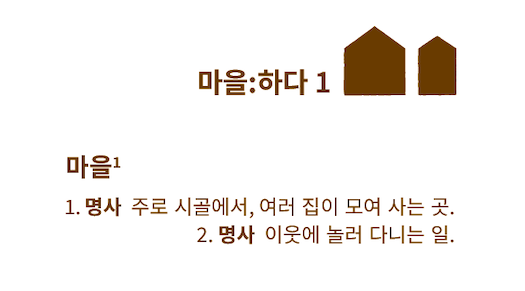
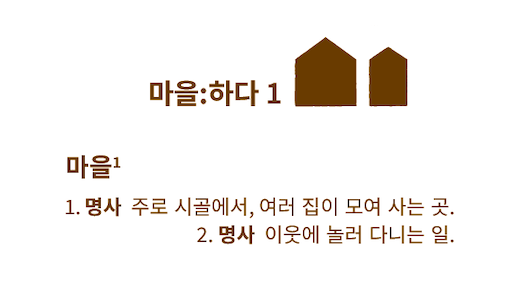
align changed

Changed region(s): [[0.2743, 0.0928, 0.8838, 0.3711]]

diff --git a/pages/about.html b/pages/about.html
@@ -62,10 +62,18 @@
 	<div id="the-gap">
 	</div>
 	<div id="main-image">
-					<img src="../img/maeul.png" width="100%"/> 
+					<img src="../img/maeul.png" width="525px" height="291px"/> 
 	</div>
 	
 	<p>*출처 : 네이버 국어사전
+	<p>함께 마을하고 싶은 사람들을 환영합니다.
+		<p>yeonbongri.official@gmail.com</p>
+	<!-- <div style="margin:30px 20px 100px 20px; font-size:16px; line-height:1.8;">
+		<p>마을하다는 마을과 관련된 다양한 활동과 경험을 공유하고 소통하는 행위를 의미합니다.
+		<p>이곳에서는 마을의 역사, 문화, 사람들에 대한 이야기뿐만 아니라, 마을에서 일어나는 다양한 행사와 프로젝트에 대한 정보도 제공합니다.
+		<p>마을하다 를 통해 우리는 마을 공동체의 중요성을 되새기고, 서로 협력하여 더 나은 마을을 만들어 나가고자 합니다.
+		<p>마을하다 에 오신 것을 환영하며, 함께 마을의 아름다움과 가치를 발견해 나가길 기대합니다.
+	</div></p> -->
 		<div id="the-gap">
 
 	<p>

diff --git a/pages/members.html b/pages/members.html
@@ -61,18 +61,24 @@
         </header>
 	<div id="the-gap">
 	</div>
-    <p>
-    <p>   
-    <p>  준비중   
-    <p>
+    <div id="main-image">  
+		<div style="text-align:left; margin:30px 20px 100px 20px;line-height:1.8;">
+		<h1>내포리</h1>   
+	    <p>이진경 
+		<p>Coralie
+		<p>Heloïse</p>
 
-
-
-
+		</p>
+		<h1>연봉리</h1>
+		<p> ...
+		<p> ...
+		
+		<h1>봉양리</h1>
+		<p>...</p>
+	</div>
 
 
         
-    </p>
     </div>
     <footer>
 		<div class="copyrights">

diff --git a/srcs/style.css b/srcs/style.css
@@ -330,13 +330,13 @@ li:hover {cursor:pointer;}
 /* menu toggle content */
 #menu {
   position: absolute;
-  width: 300px;
+  width: 250px;
   padding-left:0px;
   padding-right:0px;
-  padding-bottom:32px;
+  /* padding-bottom:32px; */
   margin: -50px 0 0 -30px;
   /* padding: 50px; */
-  padding-top: 70px;
+  padding-top: 68px;
   color:rgb(106, 60, 0);
   background-color : #a3bce1;
   /* background: rgb(240, 240, 240); */

diff --git a/featured_pages/2.html b/featured_pages/2.html
@@ -60,9 +60,16 @@
 				</div>
 			
 		</header>
+<div id="the-gap">
+			<p>
+
+			</p>
+	</div>
 	<div class="main-image">
 		
-		<img src="../img/kkali1.png" width="100%" alt="깔리" />	
+		<img src="../img/kkali1.png" width="279px" height="161px" alt="깔리" />	
+	<p>깔리(5세,♀) 는 뽀얀 털을 가진 진도 믹스견이다. </p>
+	
 	</div>
 </div>
     <footer>
